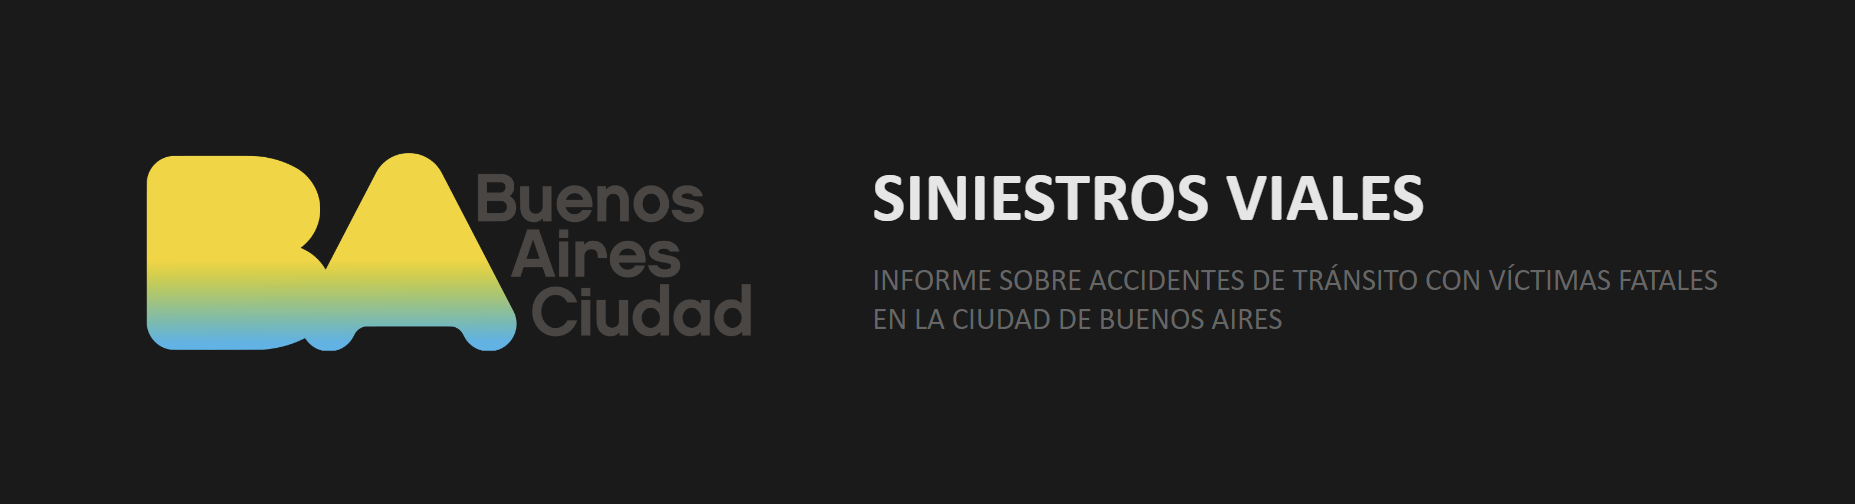
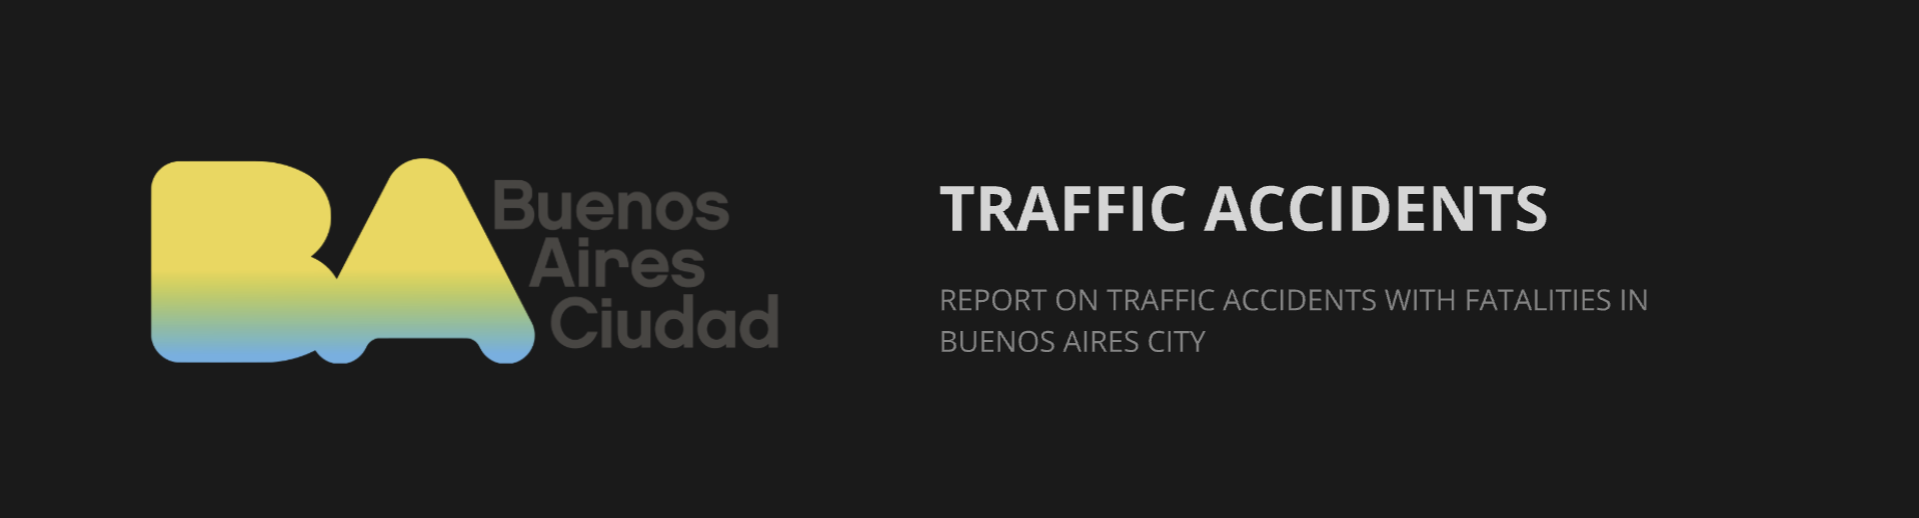
image change

diff --git a/README.md b/README.md
@@ -1,155 +1,160 @@
 
 # <h1 align=left> DATA ANALYTICS OPERATIONS </h1>
-# <h3 align=left>**`PAULA DAHER`**</h3>
+# <h3 align=left>**`Henry Bootcamp - Academic Experience`**</h3>
+</b></b>  
 
 <p align="center">
 <img src="Images\portada.png" height=200>
 </p>
 
-# <h3 align=left>**`DESCRIPCIÓN DEL PROYECTO`**</h3>
+# <h3 align=left>**`PROJECT DESCRIPTION`**</h3>
 
+The `Mobility and Road Safety Observatory` (OMSV), a research center under the **Secretariat of Transport of the Government** of the Buenos Aires City, concerned about its very high traffic accident mortality rates, commissioned me to conduct a data analysis project on its traffic accident database for the period from 2016 to 2021. The goal was to decipher trends and patterns, understand vehicular behavior in the city, and make informed decisions.
 
-El `Observatorio de Movilidad y Seguridad Vial` (OMSV), centro de estudios que se encuentra bajo la órbita de la ***Secretaría de Transporte*** del Gobierno de la Ciudad Autónoma de Buenos Aires, preocupado por sus altísimas tasas de mortalidad en siniestros viales, me encomendó hacer un proyecto de análisis de datos sobre su base de datos de accidentes de tránsito en el periodo del 2016 al 2021, para poder descifrar tendencias y patrones, comprender el comportamiento vehicular en la ciudad y poder tomar medidas acertivas. 
+[Mobility and Road Safety Observatory](https://buenosaires.gob.ar/movilidad/plan-de-seguridad-vial/observatorio-de-movilidad-y-seguridad-vial)
 
-[Observatorio de Movilidad y Seguridad Vial](https://buenosaires.gob.ar/movilidad/plan-de-seguridad-vial/observatorio-de-movilidad-y-seguridad-vial)
+As the data analyst for the project, I carried out the following tasks:
 
-Como data analyst del proyecto, realicé las siguientes tareas:
-- Limpieza y Preparación de Datos. Normalicé y transformé los datos para hacerlos compatibles y consistentes. (DATOS)
-- Análisis de Datos. Apliqué técnicas estadísticas y algoritmos para explorar y entender los datos. (DATOS)
-- Identifiqué patrones, tendencias y relaciones dentro de los datos. (INFORMACIÓN)
-- Visualización de Datos: Creé un dashboard con gráficos, tablas y otros tipos de visualizaciones para representar los datos de manera comprensible. (INFORMACIÓN)
-- Conclusiones: Interpreté los resultados del análisis y saqué algunas conclusiones para que los interesados puedan tomar medidas acertadas. (CONOCIMIENTO)
-
+- Data Cleaning and Preparation: I normalized and transformed the data to make it compatible and consistent. (DATA)
+- Data Analysis: I applied statistical techniques and algorithms to explore and understand the data. (DATA)
+- Identified patterns, trends, and relationships within the data. (INFORMATION)
+- Data Visualization: I created a dashboard with graphs, tables, and other types of visualizations to represent the data in a comprehensible manner. (INFORMATION)
+- Conclusions: I interpreted the results of the analysis and drew conclusions to help stakeholders make informed decisions. (KNOWLEDGE)
 
 -----------------------------------------------------------------------------------------------------
 
-# <h3 align=left>**`ESTRUCTURA DEL PROYECTO`**</h3>
-- **Data:.csv** En el repositorio se encuentran los archivos .csv que se recibieron (DB_seed), los archivos con un ETL aplicado (_ETL) y los archivos csv complementarios que se utilizaron para darle más profundidad al EDA.
-- **Notebooks:** el repositirio contiene 4 Jupyter notebooks, uno para el ETL y otra para el EDA, y otros dos anexos que complementan el EDA (ETL de bases de datos complementarias).
-- **Dashboard.pbix:** Archivo powerBi con el dashboard interactivo
-- **README.md:** Descripción y guía del proyecto.
+# <h3 align=left>**`PROJECT STRUCTURE`**</h3>
+- **Data:.csv** the repository contains the .csv files received (DB_seed), files with applied ETL (_ETL), and additional csv files used to deepen the EDA.
+- **Notebooks:** the repository includes 4 Jupyter notebooks: one for ETL, one for EDA, and two supplementary notebooks that complement the EDA (ETL for additional databases).
+- **Dashboard.pbix:** Power BI file with the interactive dashboard.
+- **README.md:** Project description and guide.
  
 -----------------------------------------------------------------------------------------------------
 
-# <h3 align=left>**`TECNOLOGÍA UTILIZADA`**</h3>
-- Python: Lenguaje de programación principal.
-- Pandas: Manipulación y análisis de datos.
-- NumPy: Soporte para arrays y operaciones matemáticas de alto rendimiento.
-- Matplotlib y Seaborn: Creación de gráficos.
-- Power BI: Herramienta de inteligencia empresarial para la visualización interactiva de datos y generación de informes.
-- Jupyter Notebook: Entorno interactivo para escribir y ejecutar código Python, ideal para análisis de datos y visualización.
+# <h3 align=left>**`TECH STACK`**</h3>
+- Python: Main programming language.
+- Pandas: Data manipulation and analysis.
+- NumPy: Support for arrays and high-performance mathematical operations.
+- Matplotlib and Seaborn: Graph creation.
+- Power BI: Business intelligence tool for interactive data visualization and reporting.
+- Jupyter Notebook: Interactive environment for writing and executing Python code, ideal for data analysis and visualization.
 
 
 -----------------------------------------------------------------------------------------------------
 
-# <h3 align=left>**`FUENTES DE DATOS`**</h3>
-**Obligatorio:**
+# <h3 align=left>**`DATA SOURCES`**</h3>
+**Main:**
 
 - [Buenos Aires Data](https://docs.google.com/spreadsheets/d/1nq00jGIZHQ1RLSET43zKnUsMsoFb-pBg/edit#gid=1625530738)
-- [Diccionario de datos](https://docs.google.com/spreadsheets/d/1Op98U-Hh2a3Q7uuznAzdl4Bf8r8qPr4m/edit#gid=1771770012)
+- [Data dicionary](https://docs.google.com/spreadsheets/d/1Op98U-Hh2a3Q7uuznAzdl4Bf8r8qPr4m/edit#gid=1771770012)
 
-**Complementarios:**
+**Complementary:**
 
-- [Comunas de la Ciudad de Buenos Aires](https://data.buenosaires.gob.ar/dataset/comunas)
-- [Permisos para eventos masivos en la Ciudad de Buenos Aires](https://data.buenosaires.gob.ar/dataset/permisos-eventos-masivos)
-- [Locales bailables en la Ciudad de Buenos Aires](https://data.buenosaires.gob.ar/dataset/locales-bailables)
+- [Communes of Buenos Aires City](https://data.buenosaires.gob.ar/dataset/comunas)
+- [Permits for massive events in the Buenos Aires City](https://data.buenosaires.gob.ar/dataset/permisos-eventos-masivos)
+- [Dance venues in the Buenos Aires City](https://data.buenosaires.gob.ar/dataset/locales-bailables)
 
 
 -----------------------------------------------------------------------------------------------------
 
 
-# <h3 align=left>**`PASOS REALIZADOS`**</h3>
-## Transformaciones de Datos:  
-Realicé la lectura de los dataset en el formato correcto, como así también la limpieza y preprocesamiento de los datos de las bases sobre las cuales trabajé posteriormente. 
-Eliminé columnas innecesarias, imputé valores nulos y analicé valores atípicos, entre otros procedimientos.  
-Las transformaciones se encuentran asentadas en el notebook [ETL_PI2](https://github.com/PaulaDaher/Proyecto_DataAnalytics_CABA/blob/main/ETL_PI2.ipynb)
+# <h3 align=left>**`STEPS TAKEN`**</h3>
+## Data Transformations:
+I read the datasets in the correct format, as well as cleaned and preprocessed the data from the databases I later worked with.
+I removed unnecessary columns, imputed null values, and analyzed outliers, among other procedures.
+The transformations are documented in the notebook [ETL_PI2](https://github.com/PaulaDaher/Proyecto_DataAnalytics_CABA/blob/main/ETL_PI2.ipynb)
 
-## Análisis Exploratorio de Datos:
-Realicé un análisis exploratorio de los datos para entender mejor las relaciones entre las variables, detectar comportamiento y patrones interesantes que nos sirvan para poder tomar futuras decisiones.
-Realicé gráficos coherentes según la tipología de la variable, los cuales me fueron brindando información valiosa para entender los comportamientos.
-Todo el proceso se puede observar en el siguiente notebook: [EDA_PI2](https://github.com/PaulaDaher/Proyecto_DataAnalytics_CABA/blob/main/EDA_PI2.ipynb)
+## Exploratory Data Analysis:
+I conducted an exploratory analysis of the data to better understand the relationships between variables, detect behavior and interesting patterns that could inform future decisions.
+I created coherent graphs according to the type of variable, which provided valuable information to understand behaviors.
+The entire process can be viewed in the following notebook: [EDA_PI2](https://github.com/PaulaDaher/Proyecto_DataAnalytics_CABA/blob/main/EDA_PI2.ipynb)
 
-Fué escencial cruzar el dato más importante con el que contábamos (**cantidad de víctimas: 715 en 6 años sólo en CABA**) con distintos factores como el paso del tiempo, las comunas de la ciudad de Buenos Aires, y datos de víctimas y acusados.
+It was essential to cross-reference the most important data we had (**number of victims: 715 in 6 years, only in CABA**) with various factors such as the passage of time, the neighborhoods of Buenos Aires, and data on victims and accused individuals. 
 
 
+**ACCIDENTS AND THE TIME**
 
-**SINIESTROS Y EL TIEMPO**   
+Through the analysis of the 6 years covered in the dataset, I observed both regular and atypical behaviors.
+Among the regular behaviors, I found that the months with the highest number of fatal victims in Buenos Aires are the **last months of the year**. As for atypical behaviors, there is a noticeable decrease **in the accident rate in 2020**. This can be seen as an anomaly, but considering it was a lockdown year, it is entirely expected.
 
-Mediante el análisis de los 6 años comprendidos en el dataset pude observar algunos comportamientos regulares y otros atípicos. 
-Dentro de los comportamientos regulares puedo destacar que los meses con más víctimas fatales en la Ciudad de Buenos Aires resultan ser los **últimos meses del año**, y dentro de los atípicos se puede ver que **en el año 2020 baja notablemente el índice de accidentes**. Puede tomarse como una anomalía pero teniendo en cuenta que fue año de lockdown es completamente esperable.
-
-Con respecto a las horas y días en que ocurren los siniestros, pude visualizar un dato muy importante: hay una gran **concentración de accidentes los días sábados y domingos por la madrugada**. Este dato me llevó a pensar en la movida nocturna famosa de Buenos Aires, y así es como comencé la recolección de otros dataset complementarios. 
-Quise analizar en un primer momento los permisos de eventos masivos en la Ciudad pero el dataset encontrado era muy escaso (solo con registros del 2019). [anexo_I_eventos](https://github.com/PaulaDaher/Proyecto_DataAnalytics_CABA/blob/main/anexo_I_eventos.ipynb)
+Regarding the times and days when accidents occur, I observed a very important data point: there is a **high concentration of accidents on Saturday and Sunday mornings**. This led me to consider Buenos Aires' famous nightlife, prompting me to collect additional complementary datasets.
+Initially, I intended to analyze permits for mass events in the city, but the dataset I found was very limited (only records from 2019).
+[Appendix_I_events](https://github.com/PaulaDaher/Proyecto_DataAnalytics_CABA/blob/main/anexo_I_eventos.ipynb)
 
 <p align="left">
 <img src="Images\gif1.gif" height=300>
 </p>
 
 
-**SINIESTROS Y LAS COMUNAS**
+**ACCIDENTS AND THE NEIGHBORHOODS**
 
-Sin olvidar el patrón encontrado en el punto anterior y queriendo investigar un poco más sobre la movida nocturna, analicé un segundo data set complementario que contiene registros de locales bailables de cada comuna de CABA. Para esto, extraje la información, realicé el ETL pertinente y comencé a cruzazr datos de los lugares donde se concentran la mayor cantidad de siniestros los fines de semana con las comunas dónde hay más movimiento nocturno. Como era de esperar este analisis me brindó información nueva que me permitió obtener nuevas conclusiones.
-Podemos decir que **la comuna 1 (barrioss: Constitución - Monserrat - Puerto Madero - Retiro - San Nicolás - San Telmo) es la comuna con más accidentes fatales y la comuna con más movida nocturna**. 
+Without overlooking the pattern found in the previous section and wanting to investigate the nightlife further, I analyzed a second complementary dataset containing records of nightlife venues in each neighborhood of CABA. For this, I extracted the information, performed the necessary ETL, and began cross-referencing data from the locations with the highest concentration of accidents on weekends with the neighborhoods with the most nightlife activity. As expected, this analysis provided new insights that led to new conclusions.
+We can say that **the Neighborhood 1 (areas: Constitución - Monserrat - Puerto Madero - Retiro - San Nicolás - San Telmo) is both the neighborhood with the most fatal accidents and the one with the most nightlife activity**.
+
 
 <p align="left">
 <img src="Images\graph5.png" height=300>
 </p>
 
-En el siguiente link se encuentran los ETL realizados tanto al dataset de locales bailables como a un tercet dataset que utilicé para conocer más en profundidad los barrios y comunas de CABA: [anexo_II_comunas](https://github.com/PaulaDaher/Proyecto_DataAnalytics_CABA/blob/main/anexo_II_comunas.ipynb)
+The following link contains the ETL processes performed on both the nightlife venues dataset and a third dataset I used to gain a deeper understanding of the neighborhoods and districts of CABA: [appendix_II_communes](https://github.com/PaulaDaher/Proyecto_DataAnalytics_CABA/blob/main/anexo_II_comunas.ipynb)
 
-Otros comportamientos encontrados: 
-- Las comunas **1, 4 y 9 componen el top 3** de comunas con más accidentes. 
-- El 71% de accidentes **ocurren en avenidas**.  
-
-    
+Other observed behaviors:
+- Neighborhoods **1, 4, and 9 make up the top 3** neighborhoods with the most accidents.
+- 71% of accidents **occur on avenues**.
 
 <p align="left">
 <img src="Images\gif2.gif" height=300>
 </p>
 
 
-**SINIESTROS, VÍCTIMAS Y ACUSADOS**
+**ACCIDENTS, VICTIMS, AND ACCUSED**
 
-Relacionando los accidentes viales con los implicados en los accidente (víctima y acusado) he podiro analizar métricas y comportamientos que sirven de input para la futura toma de decisiones:
-- Pude observar que las víctimas son principalmente **peatones y conductores/acompañantes de motos de sexo masculino** y que la gran mayoría de acusados de los siniestros son **conductores de automóviles**
-- También pude observar que el rango de edad con más frecuencia entre las víctimas es de **20 a 40 años**, y que los accidentes más frecuentes se dan entre **moto y auto** y **peaton y colectivo**  
+By relating traffic accidents to those involved (victims and accused), I was able to analyze metrics and behaviors that provide input for future decision-making:
+- I observed that the victims are primarily **pedestrians and male motorcycle riders/ passengers**, and that the majority of those accused in the accidents are **car drivers**.
+- I also found that the most common age range among the victims is **20 to 40 years**, and that the most frequent types of accidents occur between **motorcycles and cars and pedestrians and buses**.
+
 
 <p align="left">
 <img src="Images\graph4.png" height=200>
 </p>
 
-## Diseño y creación del dashboard:  
 
-Creé un dashboard interactivo en **PowerBi** mostrando todo el análisis realizado a través de gráficos pertinentes y coherentes para que sea sensilla la interpretación de los datos. Incluye:
-- filtros permitiendo explorar detalladamente los datos con la selección de cada uno de ellos
-- tooltips para complementar la informacón
-- Análisis de Kpi
-- diversas pestañas que permiten navegar a través de estas tres secciones detalladas anteriormente.  
+## Dashboard Design and Creation:  
+
+I created an interactive dashboard in **PowerBi** showing all the analysis conducted through relevant and coherent graphs to facilitate data interpretation. It includes:
+- Filters allowing detailed exploration of the data by selecting each one
+- Tooltips to complement the information
+- KPI analysis
+- Various tabs enabling navigation through the three sections detailed above. 
 
 <p align="left">
 <img src="Images\gif3.gif" height=300>
 </p>
 
+</b>
 
-## Desarrollo de KPIs:  
+## KPI Development:  
 
-Una de los desafíos planteados en el proyecto era la medición de 2 KPI planteados por la Ciudad de Buenos Aires, para poder medir de forma certera si los objetivos planteados fueron alcanzados. En este caso los dos KPI propuestos eran:
-- Reducir en un 10% la tasa de homicidios en siniestros viales de los últimos seis meses, en CABA, en comparación con la tasa de homicidios en siniestros viales del semestre anterior. 
-- Reducir en un 7% la cantidad de accidentes mortales de motociclistas en el último año, en CABA, respecto al año anterior.
+One of the challenges posed in the project was measuring two KPIs established by the City of Buenos Aires to accurately assess whether the objectives were achieved. The two proposed KPIs were:
 
-A estos dos KPIs le sumé uno planteado por mi que es necesario calcularlo para continuar con el análisis de los accidentes en horas de madrugada: 
-- Reducir en un 10% la cantidad de accidentes mortales que se producen de madrugada en el último año, respecto al año anterior.
-  
-Podemos observar que el objetivo planteado en el KPI 2, en el año 2021, no se cumplió, a diferencia del objetivo en el KPI3 que si se cumplió ya que se logró disminuir en el 2021 más del 10% de los accidentes de madrugada     
+- Reduce the traffic accident homicide rate by 10% in the last six months in CABA compared to the homicide rate in the previous semester.
+- Reduce the number of fatal motorcycle accidents by 7% in the last year in CABA compared to the previous year.
+
+I also added a KPI that I proposed, which is necessary to calculate in order to continue analyzing accidents during early morning hours:
+- Reduce the number of fatal accidents occurring during early morning hours by 10% in the last year compared to the previous year.
+We can observe that the objective set for KPI 2 was not met in 2021, unlike KPI 3, which was achieved as the number of early morning accidents was reduced by more than 10% in 2021.
+
+</b></b>
 
 <p align="left">
 <img src="Images\kpis.png" height=250>
 </p>
 
 
-# <h3 align=left>**`CONCLUSIONES`**</h3>
-- A través de este análisis exploratorio de los datos he podido observar como se comportan los registros de accidentes fatales en la Ciudad de Buenos Aires. 
-- Puedo obtener como conclusión que los meses con más accidentes son los meses festivos, en dónde la población sale más de sus hogares y hay más actividades en la ciudad. Sin embargo las muertes por accidentes viales se registran a lo largo de todo el año, debiendo tomar medidas urgentes para bajar este índice. Observando también una baja en el número de accidentes fatales en el año 2020 disminuyó abruptamente debido al lockdown. 
-- Observé a través del cruce de métricas que hay una gran concentración de accidentes fatales los fines de semana en la madrugada en comunas específicas, comunas que contienen mayor densidad de bares y locales bailables, por lo que se llama a una toma de medidas urgentes en cuanto a los controles de alcoholemia. 
-- La mayor cantidad de accidentes se producen en avenidas de estas comunas y se observa que la mayoría de accidentes son provocados por autos. 
-- En lo que respecta a las víctimas fatales, podemos observar que la mayoría son personas de sexo masculino, entre los 20 y 40 años. También pude observar un registro altísimo de peatones víctimas fatales de accidentes de tránsito por lo que se llama a tomar medidas en cuanto a la consientización del automovilista en el respeto del peatón.
+# <h3 align=left>**`CONCLUSIONS`**</h3>  
+
+- Through this exploratory data analysis, I have observed how fatal accident records behave in the City of Buenos Aires.
+- I can conclude that the months with the highest number of accidents are the festive months when the population is more active and there are more activities in the city. However, traffic accident fatalities occur throughout the year, indicating a need for urgent measures to reduce this rate. It is also noted that the number of fatal accidents in 2020 dropped sharply due to the lockdown.
+- By cross-referencing metrics, I observed a significant concentration of fatal accidents on weekends during early morning hours in specific neighborhoods, which have a higher density of bars and nightlife venues. This calls for urgent measures regarding alcohol testing.
+- Most accidents occur on avenues in these neighborhoods, and it is observed that the majority of accidents are caused by cars.
+- Regarding fatal victims, it is observed that most are male, aged between 20 and 40 years. There is also a very high record of pedestrian fatalities, which calls for measures to increase driver awareness and respect for pedestrians.
